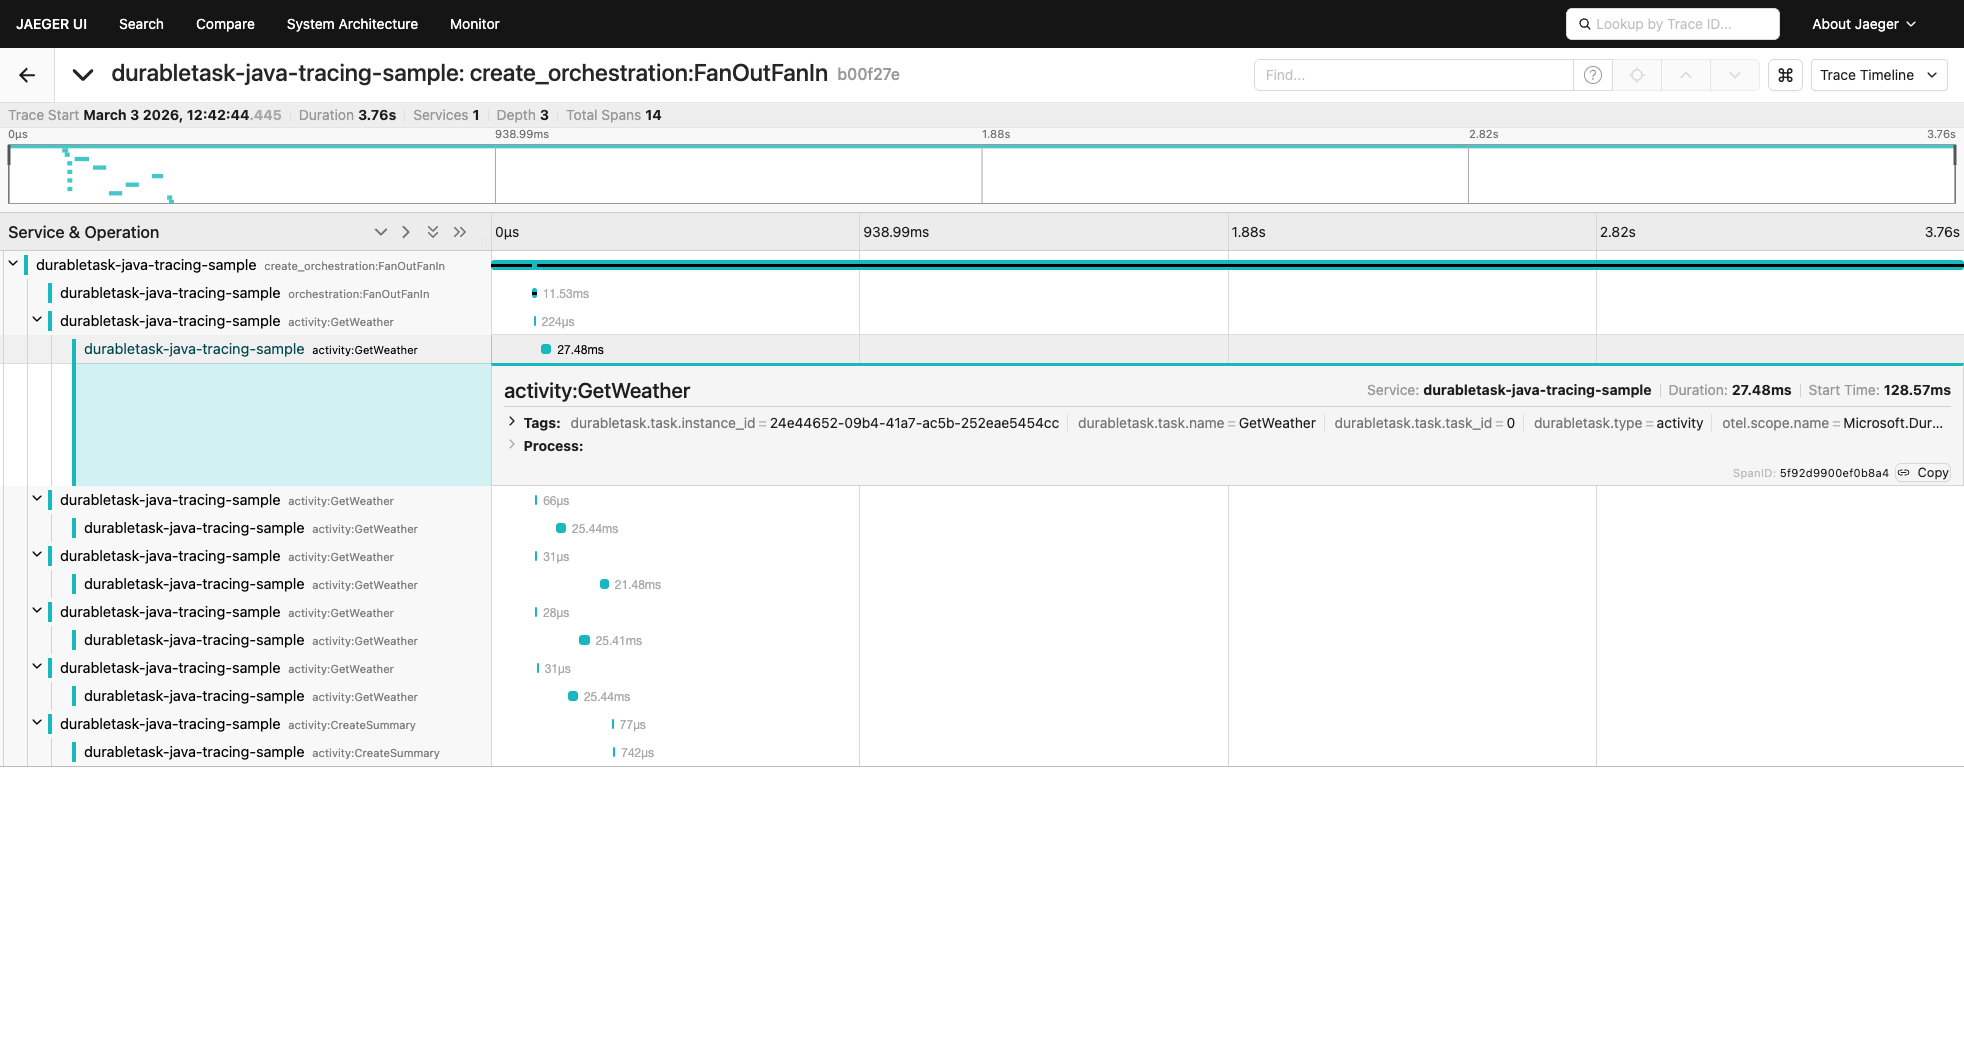
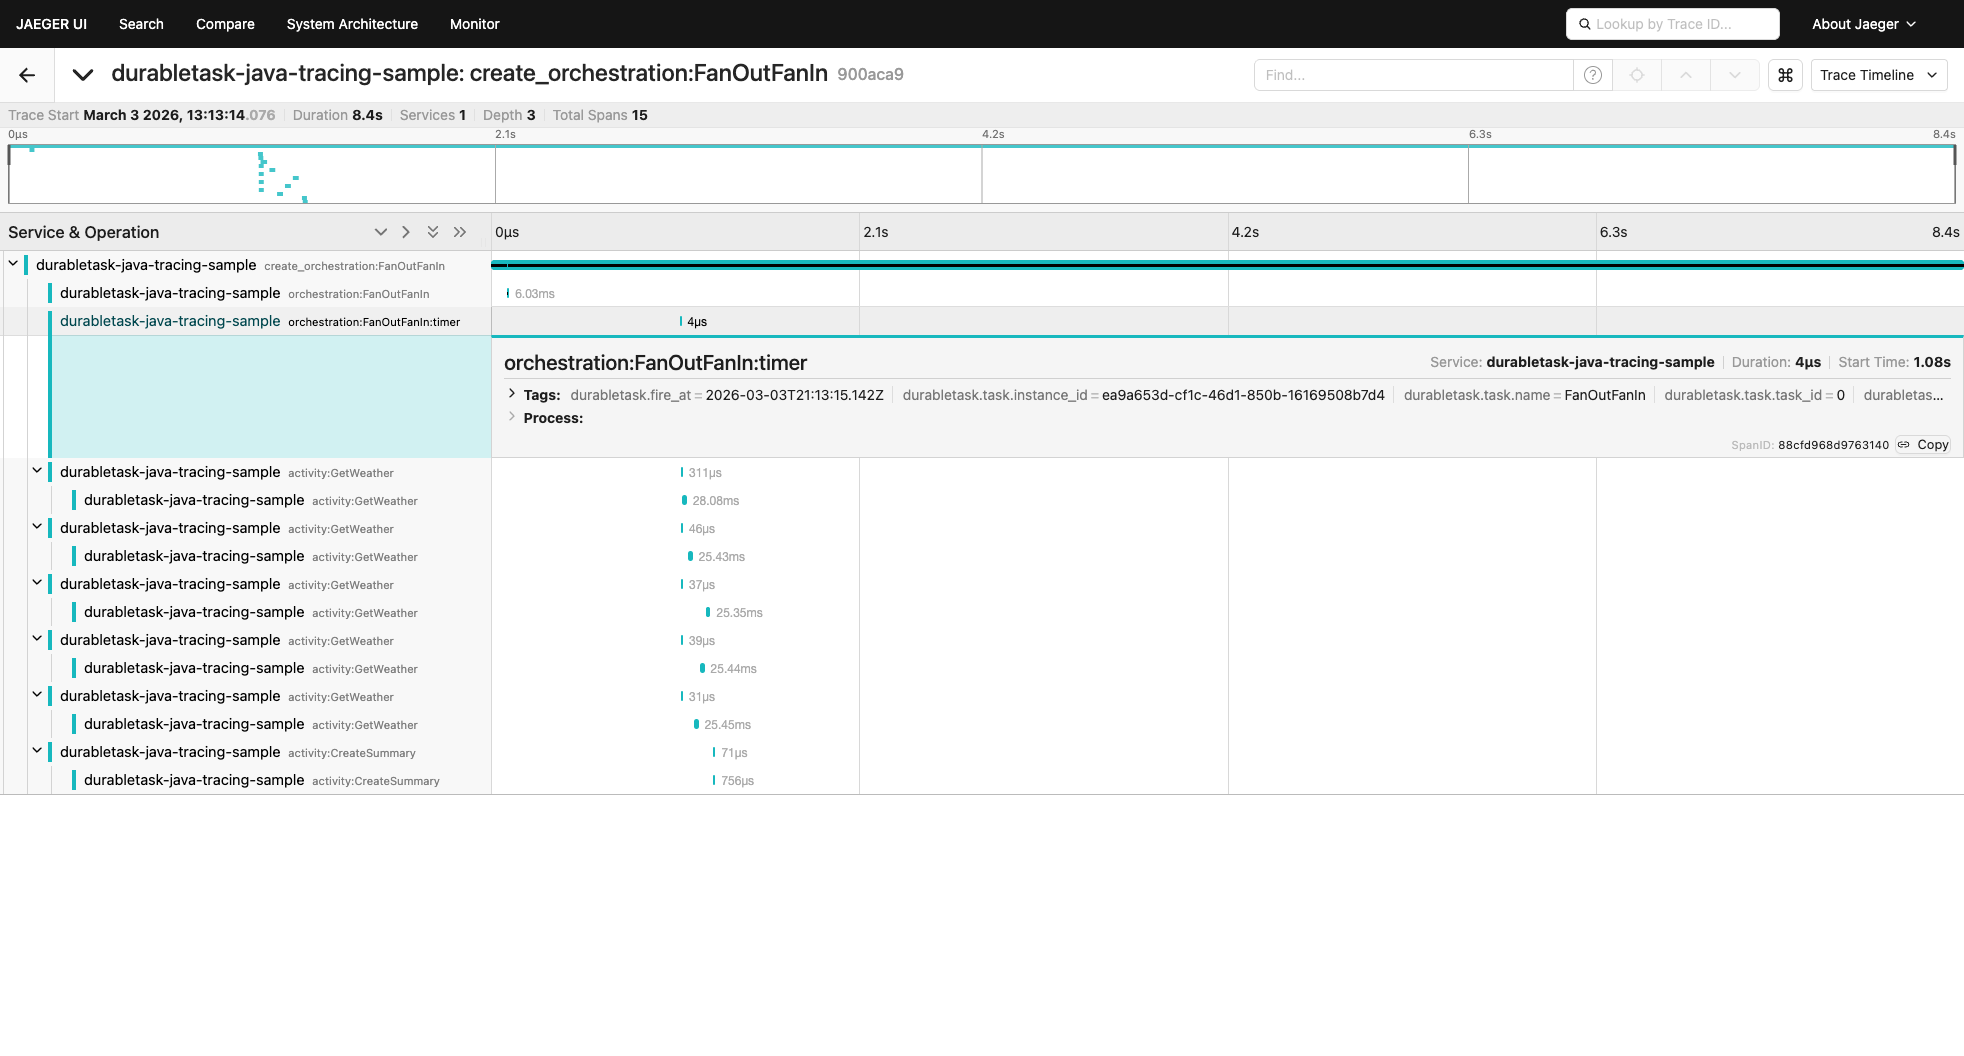
Fix timer span parent context and update screenshots
- Timer span now correctly uses parentTraceContext as parent, linking
  it to the orchestration trace instead of creating a separate trace
- Updated sample to include 1-second durable timer before fan-out
- Updated screenshots showing 15 spans with timer span in hierarchy
- Updated README with timer span documentation

diff --git a/client/src/main/java/com/microsoft/durabletask/TracingHelper.java b/client/src/main/java/com/microsoft/durabletask/TracingHelper.java
@@ -278,12 +278,14 @@ final class TracingHelper {
      * @param instanceId        The orchestration instance ID.
      * @param timerId           The timer event ID.
      * @param fireAt            The ISO-8601 formatted fire time.
+     * @param parentContext     The parent trace context, may be {@code null}.
      */
     static void emitTimerSpan(
             String orchestrationName,
             @Nullable String instanceId,
             int timerId,
-            @Nullable String fireAt) {
+            @Nullable String fireAt,
+            @Nullable TraceContext parentContext) {
         Tracer tracer = GlobalOpenTelemetry.getTracer(TRACER_NAME);
         SpanBuilder spanBuilder = tracer.spanBuilder(
                 TYPE_ORCHESTRATION + ":" + orchestrationName + ":" + TYPE_TIMER)
@@ -291,6 +293,11 @@ final class TracingHelper {
                 .setAttribute(ATTR_TYPE, TYPE_TIMER)
                 .setAttribute(ATTR_TASK_NAME, orchestrationName)
                 .setAttribute(ATTR_TASK_ID, String.valueOf(timerId));
+
+        Context parentCtx = extractTraceContext(parentContext);
+        if (parentCtx != null) {
+            spanBuilder.setParent(parentCtx);
+        }
 
         if (instanceId != null) {
             spanBuilder.setAttribute(ATTR_INSTANCE_ID, instanceId);

diff --git a/client/src/main/java/com/microsoft/durabletask/TaskOrchestrationExecutor.java b/client/src/main/java/com/microsoft/durabletask/TaskOrchestrationExecutor.java
@@ -397,7 +397,7 @@ final class TaskOrchestrationExecutor {
                         id,
                         serializedEventData != null ? serializedEventData : "(null)"));
 
-                // Emit an event span matching .NET SDK's StartTraceActivityForEventRaisedFromWorker
+                // Emit an event span  StartTraceActivityForEventRaisedFromWorker
                 TracingHelper.emitEventRaisedFromWorkerSpan(eventName, this.instanceId, instanceId);
             }
         }
@@ -744,7 +744,8 @@ final class TaskOrchestrationExecutor {
                         this.getName(),
                         this.instanceId,
                         timerEventId,
-                        fireAt);
+                        fireAt,
+                        this.parentTraceContext);
             }
 
             CompletableTask<?> task = record.getTask();

diff --git a/samples/src/main/java/io/durabletask/samples/TracingPattern.java b/samples/src/main/java/io/durabletask/samples/TracingPattern.java
@@ -95,6 +95,9 @@ final class TracingPattern {
                     @Override
                     public TaskOrchestration create() {
                         return ctx -> {
+                            // Timer: wait briefly (demonstrates timer span)
+                            ctx.createTimer(Duration.ofSeconds(1)).await();
+
                             // Fan-out: schedule multiple parallel activities
                             List<Task<String>> parallelTasks = new java.util.ArrayList<>();
                             String[] cities = {"Seattle", "Tokyo", "London", "Paris", "Sydney"};

diff --git a/client/src/main/java/com/microsoft/durabletask/DurableTaskGrpcClient.java b/client/src/main/java/com/microsoft/durabletask/DurableTaskGrpcClient.java
@@ -150,7 +150,7 @@ public final class DurableTaskGrpcClient extends DurableTaskClient {
         Helpers.throwIfArgumentNull(instanceId, "instanceId");
         Helpers.throwIfArgumentNull(eventName, "eventName");
 
-        // Emit an event span matching .NET SDK's StartActivityForNewEventRaisedFromClient
+        // Emit an event span  StartActivityForNewEventRaisedFromClient
         TracingHelper.emitEventRaisedFromClientSpan(eventName, instanceId);
 
         RaiseEventRequest.Builder builder = RaiseEventRequest.newBuilder()

diff --git a/client/src/test/java/com/microsoft/durabletask/TracingHelperTest.java b/client/src/test/java/com/microsoft/durabletask/TracingHelperTest.java
@@ -293,7 +293,7 @@ public class TracingHelperTest {
 
     @Test
     void emitTimerSpan_createsInternalSpanWithFireAt() {
-        TracingHelper.emitTimerSpan("MyOrchestration", "instance-1", 5, "2026-01-01T00:00:00Z");
+        TracingHelper.emitTimerSpan("MyOrchestration", "instance-1", 5, "2026-01-01T00:00:00Z", null);
 
         List<SpanData> spans = spanExporter.getFinishedSpanItems();
         assertEquals(1, spans.size());

diff --git a/samples/README.md b/samples/README.md
@@ -44,7 +44,7 @@ The `TracingPattern` sample demonstrates the **Fan-Out/Fan-In** pattern with dis
 1. Configures OpenTelemetry with an OTLP exporter pointing to Jaeger
 2. Connects a worker and client to the DTS emulator using a connection string
 3. Creates a parent span (`create_orchestration:FanOutFanIn`) and schedules an orchestration
-4. The orchestration fans out 5 parallel `GetWeather` activities (Seattle, Tokyo, London, Paris, Sydney), fans in the results, then calls `CreateSummary` to aggregate
+4. The orchestration waits on a 1-second **durable timer**, then fans out 5 parallel `GetWeather` activities (Seattle, Tokyo, London, Paris, Sydney), fans in the results, then calls `CreateSummary` to aggregate
 5. The SDK automatically propagates trace context through the full execution chain
 
 ## Screenshots
@@ -60,22 +60,23 @@ Shows the trace from `durabletask-java-tracing-sample` service with spans coveri
 Full span hierarchy showing the fan-out/fan-in pattern with paired Client+Server spans (matching .NET SDK):
 - `create_orchestration:FanOutFanIn` (root, internal)
   - `orchestration:FanOutFanIn` (server — orchestration execution)
+    - `orchestration:FanOutFanIn:timer` (internal — durable timer wait)
     - `activity:GetWeather` ×5 (client — scheduling) → `activity:GetWeather` ×5 (server — execution)
     - `activity:CreateSummary` (client) → `activity:CreateSummary` (server)
 
-14 spans total, Depth 3 — aligned with the .NET SDK trace structure.
+15 spans total, Depth 3 — aligned with the .NET SDK trace structure.
 
 ![Jaeger trace detail](images/jaeger-full-trace-detail.png)
 
-### Jaeger — Span Attributes
+### Jaeger — Span Attributes (Timer)
 
-Activity span showing attributes aligned with the .NET SDK schema:
-- `durabletask.type=activity`
-- `durabletask.task.name=GetWeather`
+Timer span showing attributes aligned with the .NET SDK schema:
+- `durabletask.type=timer`
+- `durabletask.task.name=FanOutFanIn`
+- `durabletask.fire_at=2026-03-03T21:13:15.142Z`
 - `durabletask.task.instance_id=<orchestrationId>`
-- `durabletask.task.task_id=0`
 - `otel.scope.name=Microsoft.DurableTask`
-- `span.kind=server`
+- `span.kind=internal`
 
 ![Jaeger span detail](images/jaeger-span-detail.png)
 
